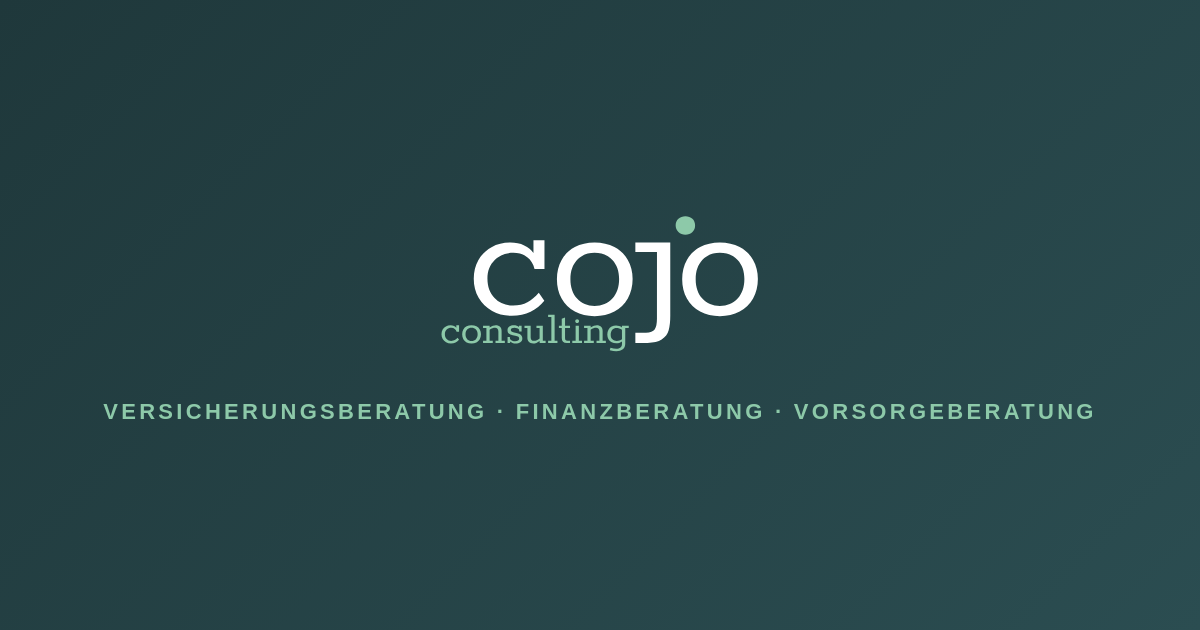
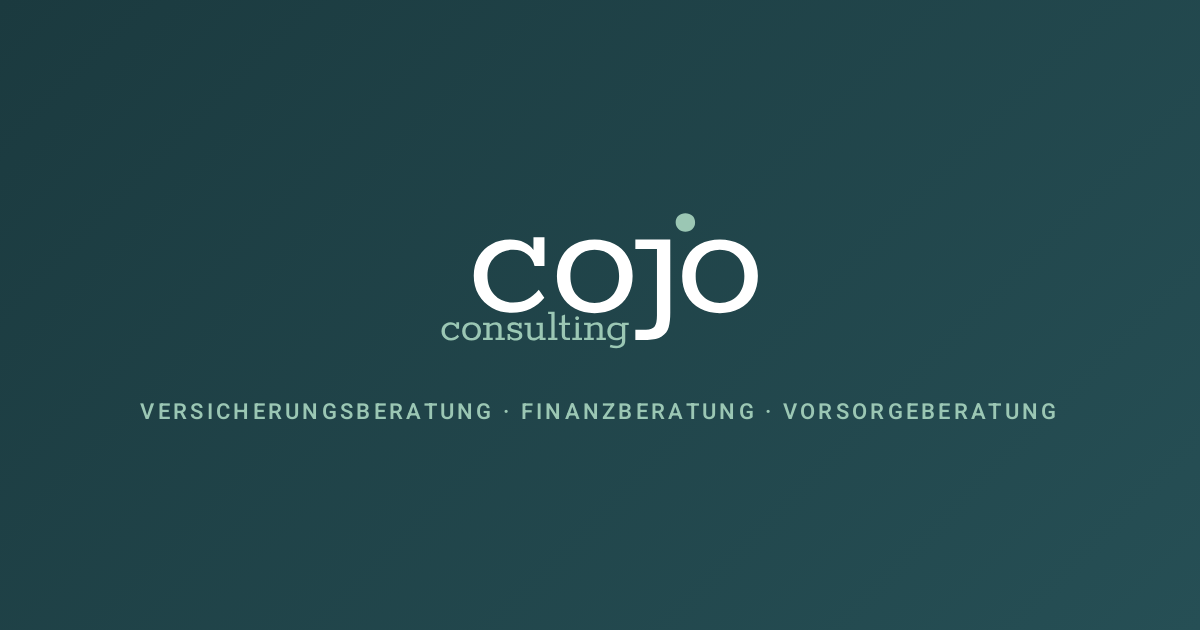
Migrate to completely adhere to CD manual

diff --git a/src/css/style.css b/src/css/style.css
@@ -1,19 +1,19 @@
 /* ---------------------------------------------------------
-   Brand tokens — from the official Cojo print/logo files
-   (cojo-marketing.zip): deep teal + sage green, Lato for
-   headings, Heebo for body/buttons.
+   Brand tokens — from the official Cojo Consulting Corporate
+   Design Mini-Manual (The Project Black, Dez. 2023): Petrol
+   + Mint, Rokkitt for headings, Heebo for body/buttons/UI.
 --------------------------------------------------------- */
 :root {
-  --color-primary:  #2b4d51;
-  --color-primary-dark: #1f383b;
-  --color-accent: #8dc9a9;
+  --color-primary: #264f55;
+  --color-primary-dark: #1b3a3f;
+  --color-accent: #9bc7b4;
   --color-bg: #ffffff;
   --color-bg-alt: #f8f8f8;
   --color-text: #333333;
   --color-text-muted: #666666;
   --color-border: #e9ebef;
 
-  --font-heading: "Lato", sans-serif;
+  --font-heading: "Rokkitt", serif;
   --font-body: "Heebo", sans-serif;
 
   --container-width: 1140px;
@@ -39,7 +39,7 @@ a { color: var(--color-primary); text-decoration: none; }
 a:hover { color: var(--color-accent); }
 h1, h2, h3, h4, h5, h6 {
   font-family: var(--font-heading);
-  font-weight: 600;
+  font-weight: 700;
   text-transform: uppercase;
   letter-spacing: 0.03em;
   line-height: 1.25;
@@ -128,7 +128,7 @@ p { margin: 0 0 1em; }
 }
 .site-nav__list a {
   color: #fff;
-  font-family: var(--font-heading);
+  font-family: var(--font-body);
   font-size: 0.8rem;
   font-weight: 400;
   text-transform: uppercase;
@@ -173,7 +173,7 @@ p { margin: 0 0 1em; }
   background: linear-gradient(135deg, var(--color-primary-dark), var(--color-primary));
   text-align: center;
 }
-.hero__kicker {
+.hero .hero__kicker {
   color: var(--color-accent);
   font-family: var(--font-heading);
   font-size: 0.85rem;
@@ -309,7 +309,8 @@ section.alt { background: var(--color-bg-alt); }
 .signature { max-width: 200px; margin-top: 1.5rem; }
 
 @media (max-width: 780px) {
-  .about { grid-template-columns: 1fr; }
+  .about { grid-template-columns: 1fr; text-align: center; }
+  .about img { margin-inline: auto; }
 }
 
 .cta {
